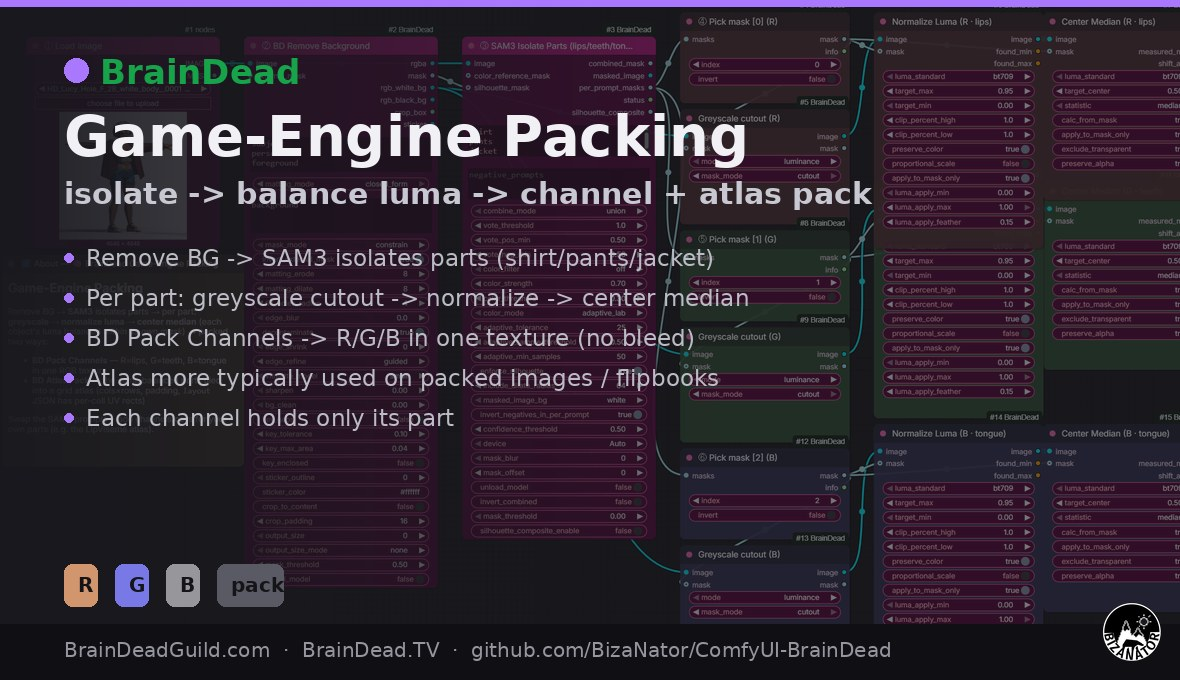
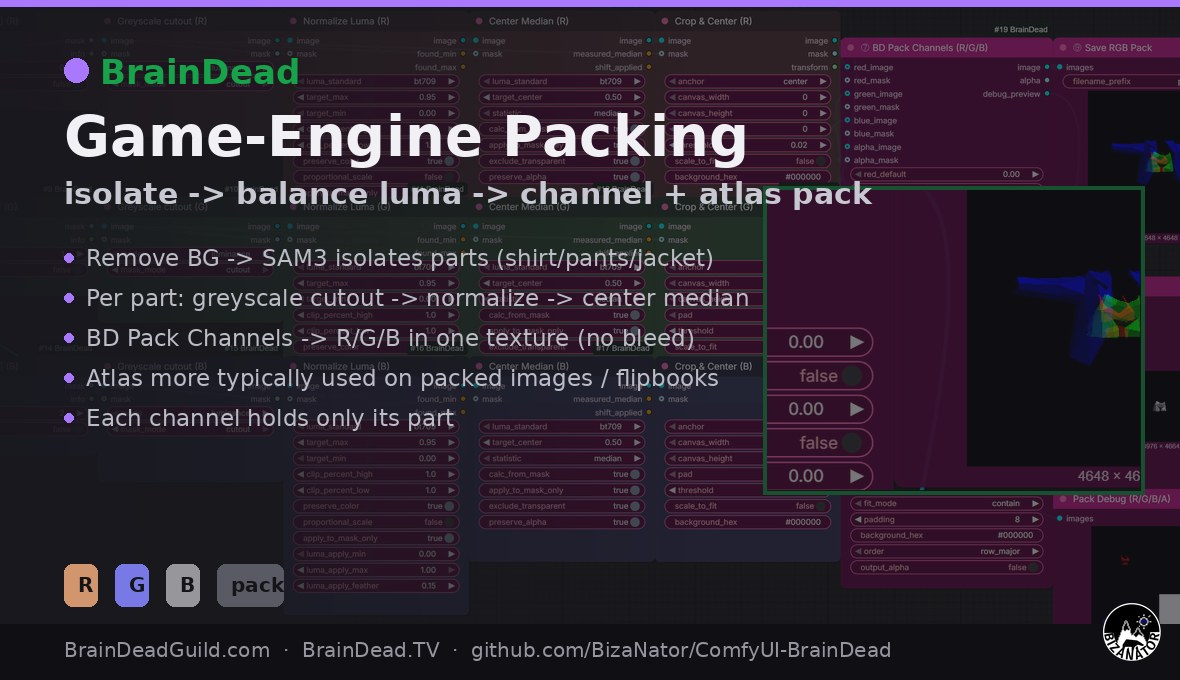
Update game-engine-packing thumbnail (centered workflow + result hero)
Refresh the template card to the current 24-node workflow (with the Crop &
Center column) and pull the RGB-pack preview out of the capture as a
green-framed hero inset showing the centered, overlapping channels.
Composed by tools/build_packing_thumbnail_bg.py from the staged screenshots.

diff --git a/tools/build_packing_thumbnail_bg.py b/tools/build_packing_thumbnail_bg.py
@@ -1,0 +1,47 @@
+#!/usr/bin/env python3
+"""
+Compose the BD-game_engine_packing thumbnail background (1180x680).
+
+The available shots are all full-workflow captures (the RGB-pack result shows only
+as small node previews), so the cleanest card uses the *current* centered workflow
+(the 24-node graph WITH the Crop & Center column) as the faded base, and pulls the
+small RGB-pack preview out of it as a single bright hero inset on the right.
+
+Sources live under example_workflows/screenshots/. Re-run after new screenshots,
+then regen the thumbnail.
+"""
+import os
+from PIL import Image, ImageDraw
+
+W, H = 1180, 680
+GREEN = (22, 163, 74)
+HERE = os.path.join(os.path.dirname(__file__), "..", "example_workflows", "screenshots")
+
+
+def cover(img, w, h):
+    r = max(w / img.width, h / img.height)
+    img = img.resize((int(img.width * r), int(img.height * r)), Image.LANCZOS)
+    x = (img.width - w) // 2
+    return img.crop((x, 0, x + w, h))
+
+
+# base = the current centered workflow (has the Crop & Center nodes)
+after = Image.open(os.path.join(HERE, "game_engine_packing_after.png")).convert("RGB")
+base = cover(after, W, H)
+
+# Hero inset: crop the RGB-pack preview from the top-right of the source capture.
+# (the Save RGB Pack node preview sits in the upper-right ~ x:0.80-0.92, y:0.16-0.34)
+aw, ah = after.size
+crop = after.crop((int(aw * 0.795), int(ah * 0.15), int(aw * 0.925), int(ah * 0.36)))
+ch_h = 300
+ch_w = max(1, int(crop.width * ch_h / crop.height))
+crop = crop.resize((ch_w, ch_h), Image.LANCZOS)
+hx, hy = W - ch_w - 40, (H - ch_h) // 2
+d = ImageDraw.Draw(base)
+d.rectangle([hx - 4, hy - 4, hx + ch_w + 4, hy + ch_h + 4], fill=(12, 12, 16))
+base.paste(crop, (hx, hy))
+d.rectangle([hx - 4, hy - 4, hx + ch_w + 4, hy + ch_h + 4], outline=GREEN, width=4)
+
+out = os.path.join(HERE, "game_engine_packing_bg.png")
+base.save(out, quality=95)
+print(f"wrote {out} ({base.size[0]}x{base.size[1]}) — hero crop {crop.size}")